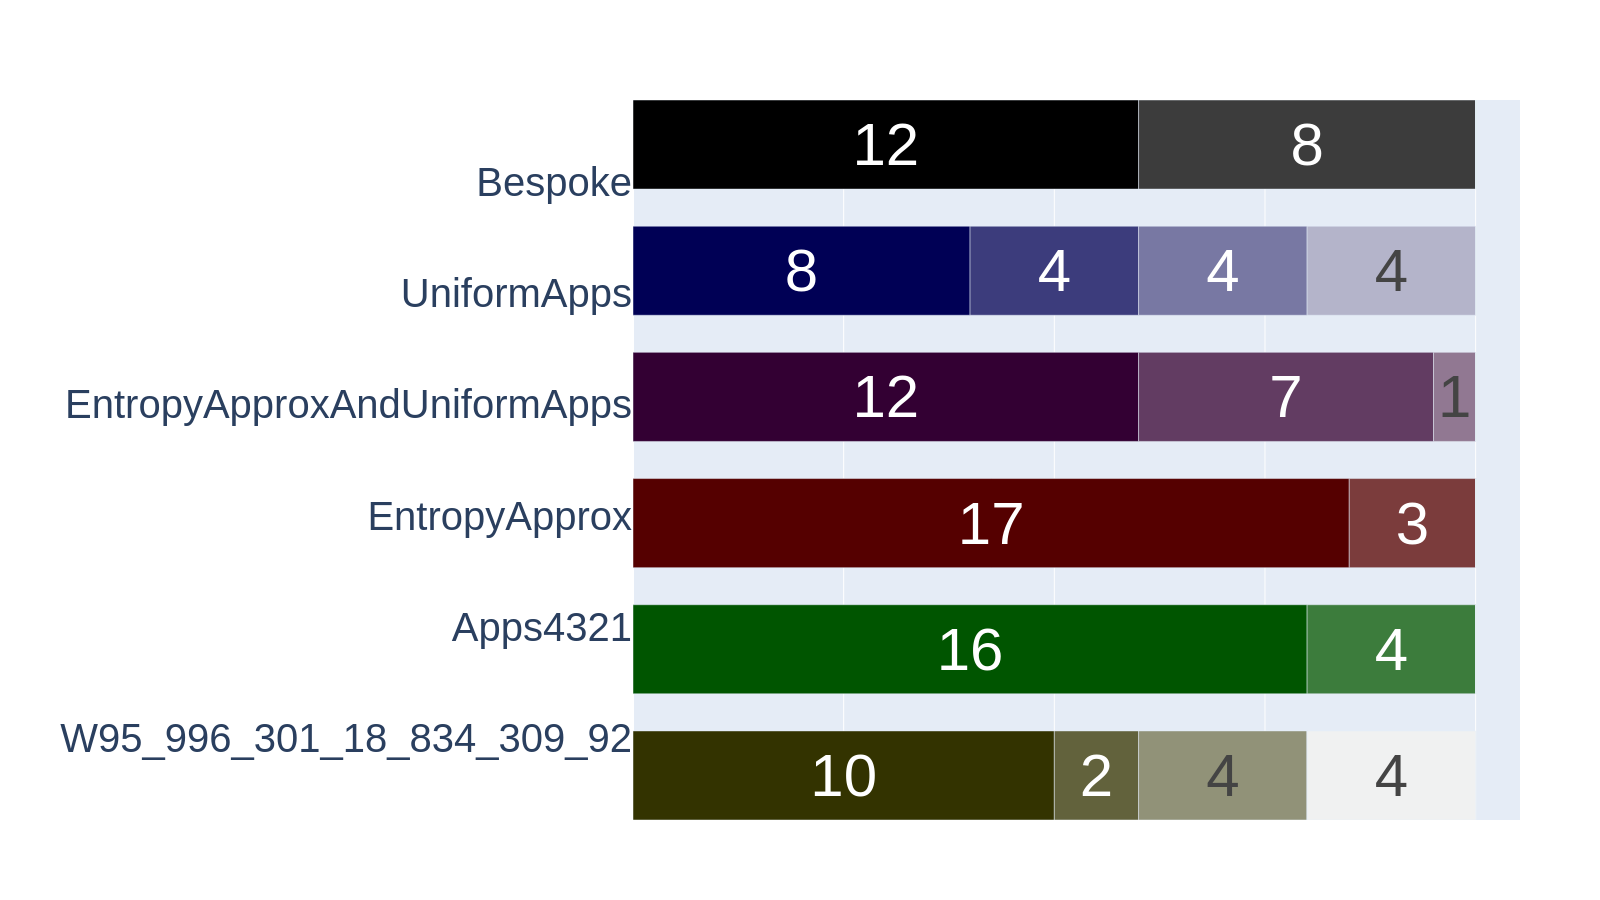
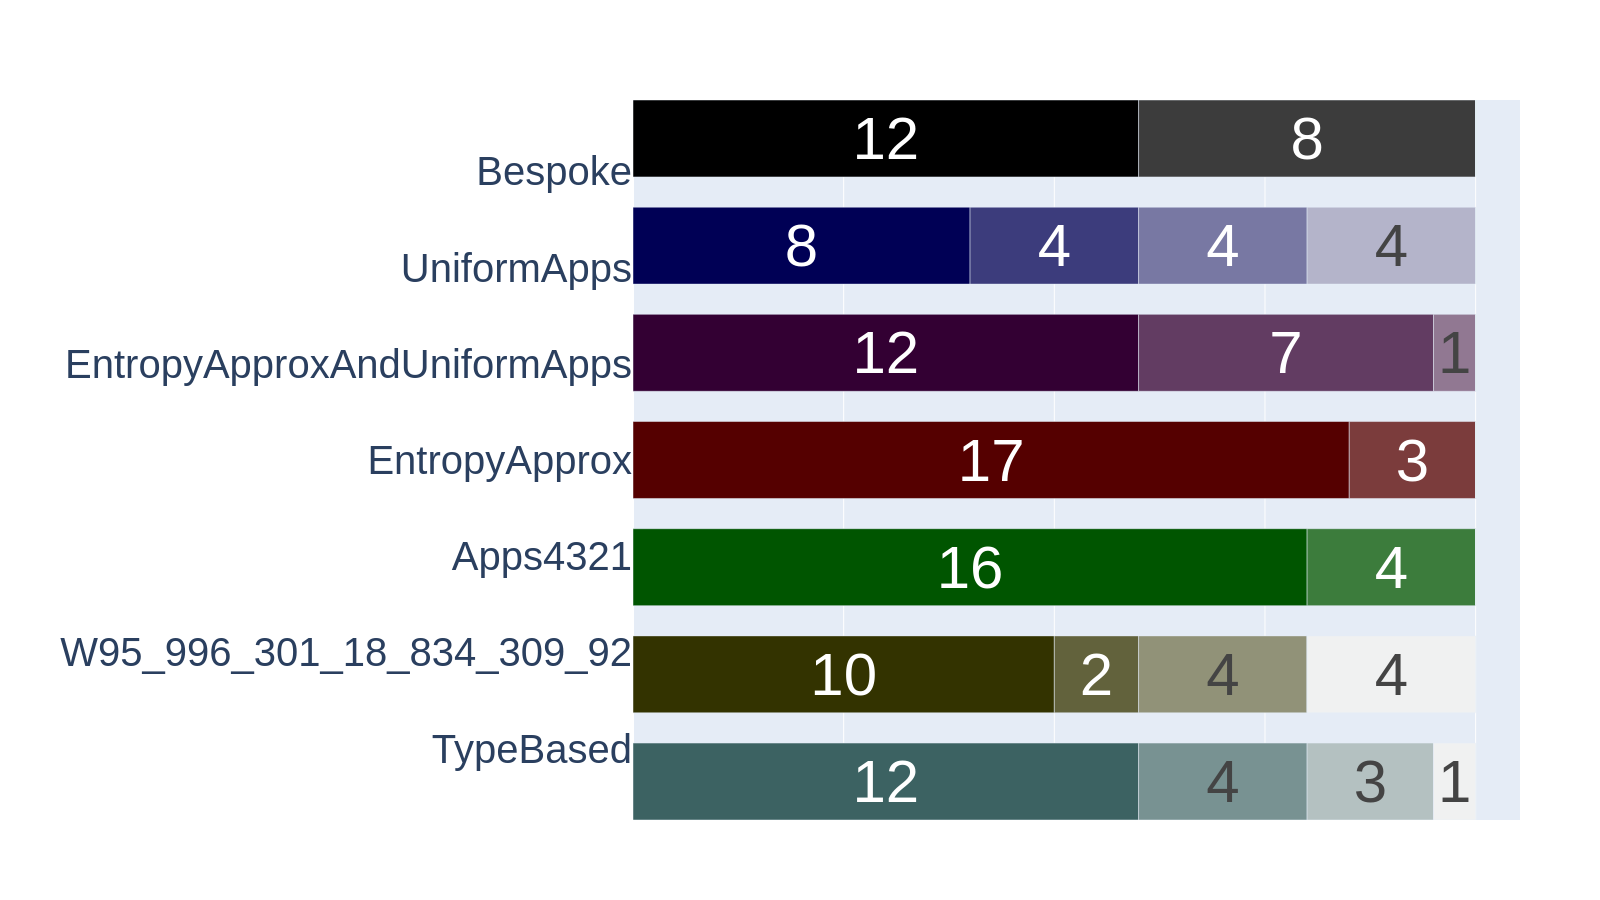
add stlc tb

diff --git a/experiments/coq-experiments/new/Analysis.py b/experiments/coq-experiments/new/Analysis.py
@@ -19,6 +19,7 @@ def analyze(results: str, images: str):
         ('EntropyApproxGenerator', '#500'),
         ('Apps4321Generator', '#050'),
         ('W95_996_301_18_834_309_92Generator', '#330'),
+        ('TypeBasedGenerator', '#033'),
     ])
     colors = list(reversed(colors))
     for workload in ['STLC']:

diff --git a/experiments/coq-experiments/new/Collect.py b/experiments/coq-experiments/new/Collect.py
@@ -32,6 +32,7 @@ def collect(results: str):
                     'UniformAppsGenerator',
                     'Apps4321Generator',
                     'W95_996_301_18_834_309_92Generator',
+                    'TypeBasedGenerator',
                 ]:
                     continue
 
